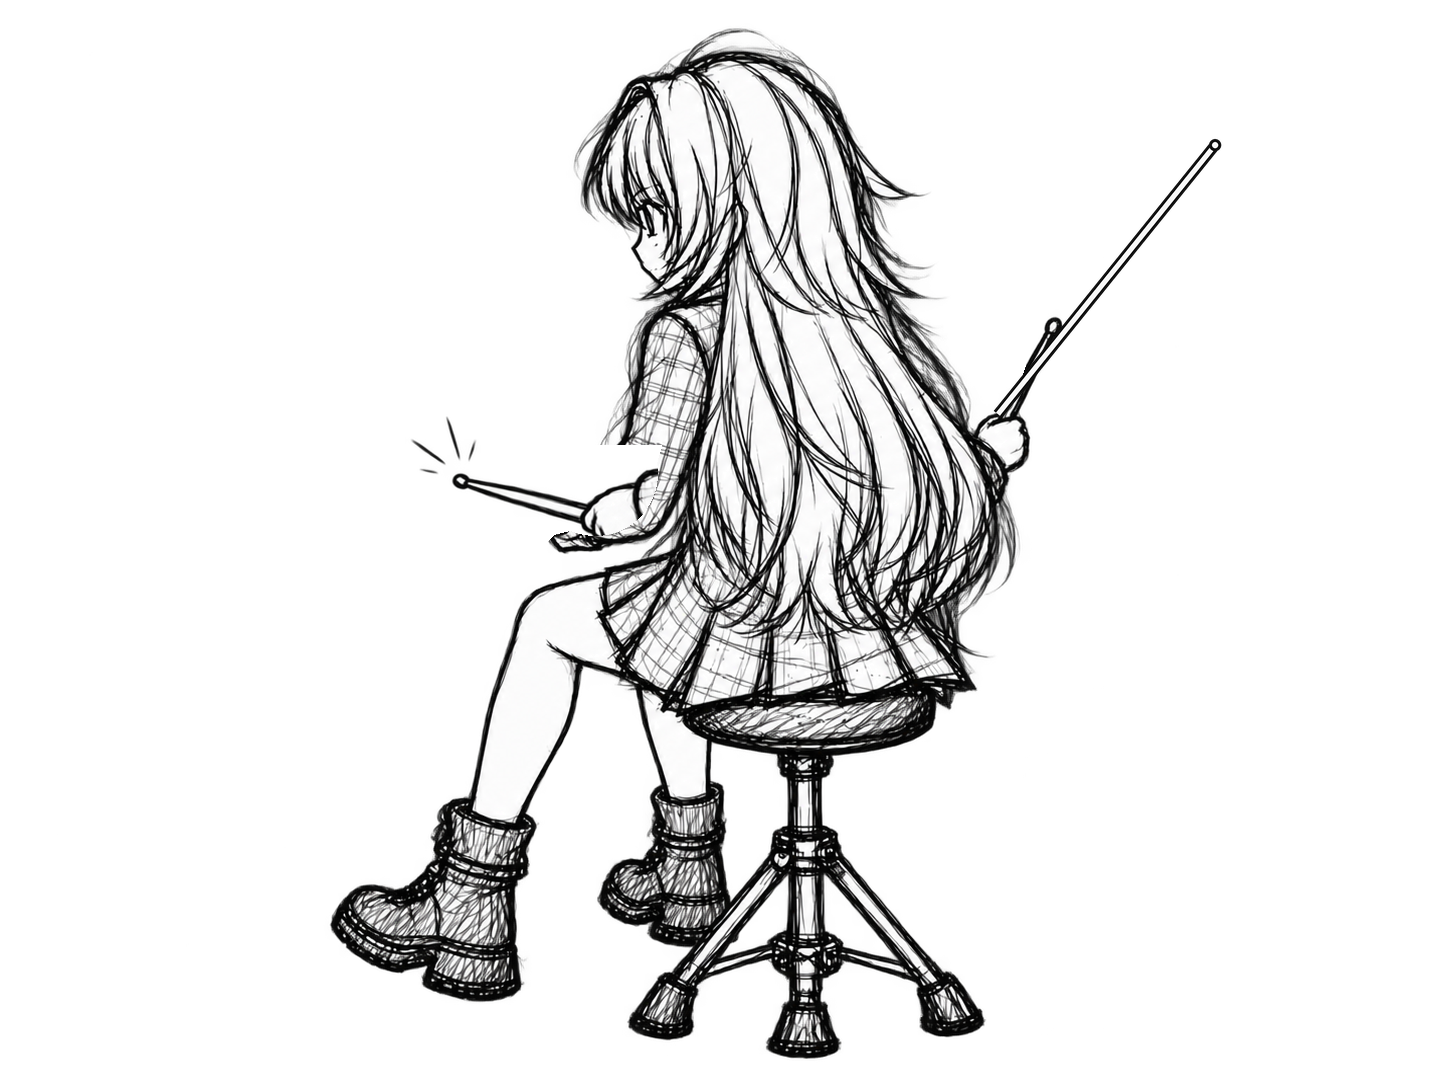
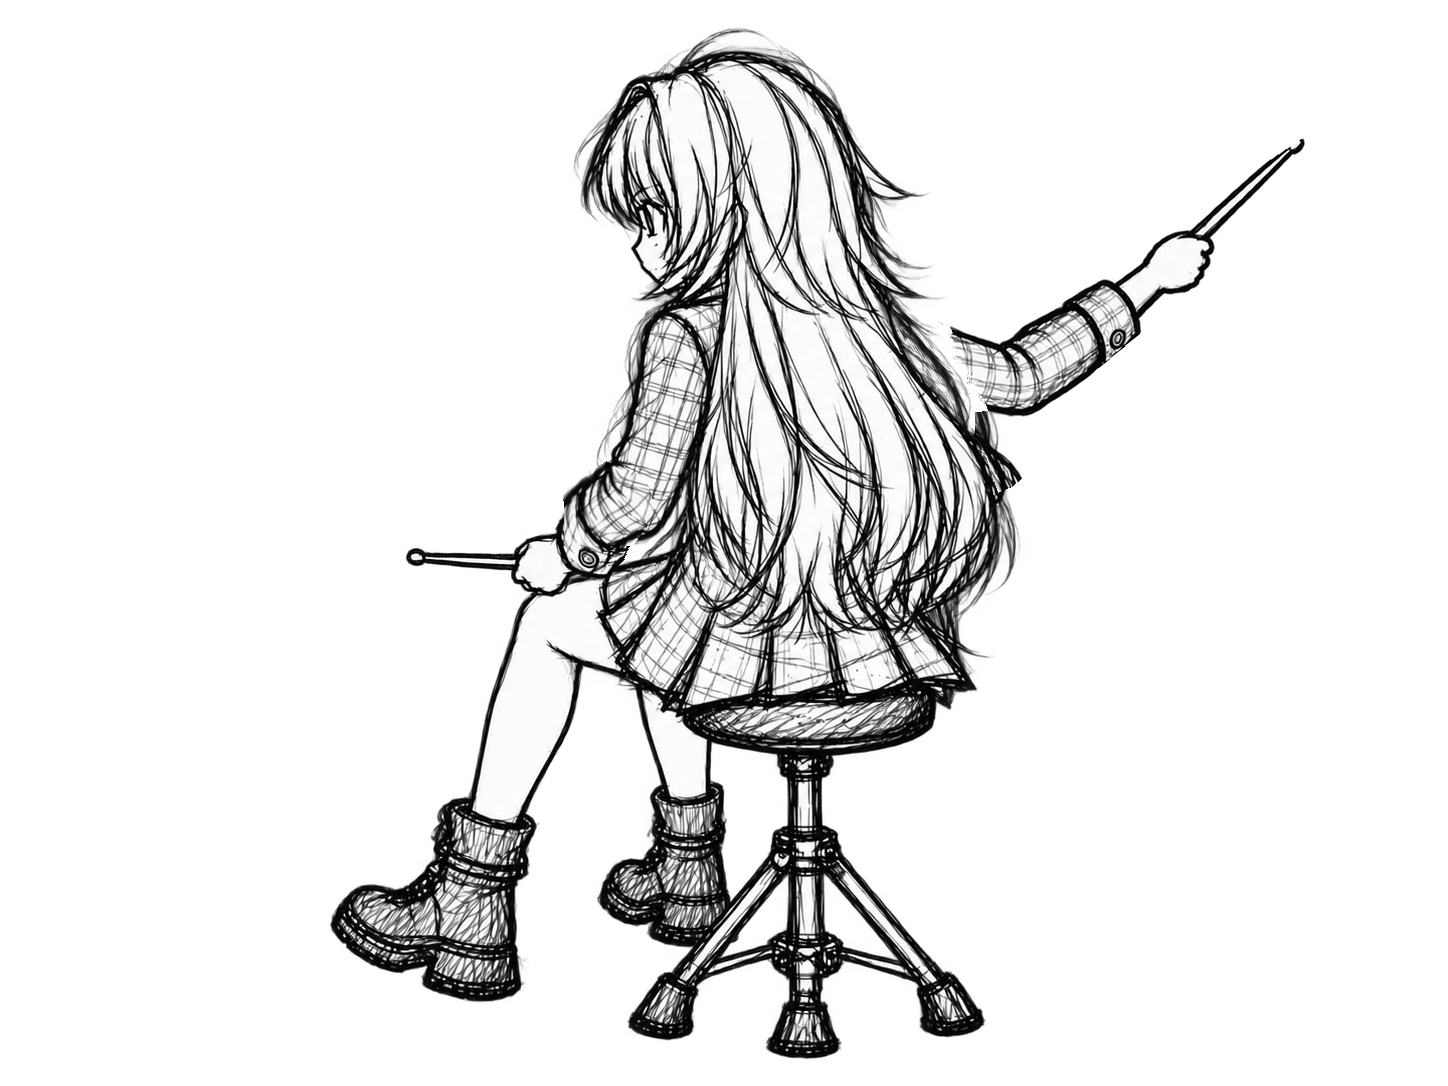
Produce RC and RC+SN pairs with protected character pixels and fixed-drum contact QA

Changed region(s): [[0.6526, 0.1215, 0.9012, 0.4558], [0.2797, 0.395, 0.4662, 0.547]]

diff --git a/site/index.html b/site/index.html
@@ -5,7 +5,7 @@
   <meta name="viewport" content="width=device-width,initial-scale=1,viewport-fit=cover,user-scalable=no">
   <meta name="theme-color" content="#2516ff">
   <title>DTX Drum Flow — FINAL Charts</title>
-  <link rel="stylesheet" href="./styles.css?v=20261008-four-pairs-r2">
+  <link rel="stylesheet" href="./styles.css?v=20261008-six-pairs-r3">
   <style>
     :root{--luna-blue:#2516ff;--luna-ink:#070716;--luna-ivory:#f7f3ea;--luna-lime:#baff00}
     html,body{background:var(--luna-ink)}
@@ -42,8 +42,8 @@
     <section class="panel status-panel"><h2>STATUS</h2><p id="status">FINAL譜面を自動読み込みしています…</p></section>
   </main>
   <nav class="mobile-transport" aria-label="再生操作"><button id="rewindMeasure" class="transport-side">−4小節</button><button id="playPause" class="transport-play is-loading" disabled aria-disabled="true" style="--play-load:0%">読み込み中 0%</button><button id="forwardMeasure" class="transport-side">＋4小節</button></nav>
-  <script type="module" src="./app.js?v=20261008-four-pairs-r2"></script>
-  <script type="module" src="./original-audio.js?v=20261008-four-pairs-r2"></script>
+  <script type="module" src="./app.js?v=20261008-six-pairs-r3"></script>
+  <script type="module" src="./original-audio.js?v=20261008-six-pairs-r3"></script>
   <script>setTimeout(()=>{if(!window.__DTX_APP_READY__){const s=document.getElementById("status");if(s)s.textContent="アプリ本体の読み込みに失敗しました。ページを再読み込みしてください。";}},1500);</script>
   <script src="./version-switcher.js?v=20260920-prepost-r1" defer></script>\n</body>
 </html>

diff --git a/site/app.js b/site/app.js
@@ -2,7 +2,7 @@ import {makeSample,parseChart} from "./parsers.js";
 import {decodeAudio,analyzeOnsets,realignNotes} from "./audio-analysis.js";
 import {LiveDrumEngine} from "./live-drum-engine.js?v=20260920-chart-preload-r2";
 import {applyDrumVoice} from "./drum-note-sound-map.js?v=20260919-audio-final-r21";
-import {initCharacterPrototype,updateCharacterPrototype} from "./character-prototype.js?v=20261008-four-pairs-r2";
+import {initCharacterPrototype,updateCharacterPrototype} from "./character-prototype.js?v=20261008-six-pairs-r3";
 
 const PARTS=["LB","LC","HH","LP","SN","BD","HT","LT","FT","RD","RC"];
 const PART_LABEL={LC:"左シンバル",HH:"ハイハット",SN:"スネア",HT:"ハイタム",LT:"ロータム",FT:"フロアタム",RC:"右シンバル",RD:"ライド",LP:"左足HH",LB:"左足BD",BD:"バスドラム"};

diff --git a/site/character-prototype.js b/site/character-prototype.js
@@ -4,7 +4,7 @@ const DEFAULT_MEASURE_END=4;
 const LIMB_URL="./charts/luna_say_maybe/Luna_say_maybe_full_limbs.json";
 const INVENTORY_URL="./character-assets/prototypes/luna_say_maybe_16m/asset_inventory.json";
 const ASSET_ROOT="./character-assets";
-const ASSET_VERSION="20261008-four-pairs-r2";
+const ASSET_VERSION="20261008-six-pairs-r3";
 const DRUM="./character-assets/layers/drum/drum_base.png";
 const assetUrl=src=>src+(src.includes("?")?"&":"?")+"v="+ASSET_VERSION;
 

diff --git a/character-assets/production/20261008/scripts/make_rc_pair.py b/character-assets/production/20261008/scripts/make_rc_pair.py
@@ -1,0 +1,8 @@
+from PIL import Image,ImageDraw
+from pathlib import Path
+import numpy as np,json
+O=Path('work_output');s=np.array(Image.open(O/'variants/sn/hit_l_candidate_v3.png'));g=np.array(Image.open(O/'sources/right_outward_arm_donor.png').convert('RGBA'));old=np.array(Image.open(O/'variants/hh/hit_r_local_edit_v4.png'));base=s.copy();om=Image.new('L',(1448,1086));ImageDraw.Draw(om).polygon([(975,412),(995,409),(1045,306),(1068,307),(1070,342),(1036,407),(1044,458),(1012,486),(998,492),(985,453),(975,435)],fill=255);o=np.array(om)>0;base[o]=old[o]
+mask=Image.new('L',(1448,1086));ImageDraw.Draw(mask).polygon([(921,327),(1009,321),(1083,254),(1123,211),(1178,192),(1217,150),(1288,89),(1290,145),(1239,203),(1197,266),(1152,296),(1072,382),(1016,428),(963,435),(935,411),(919,366)],fill=255);m=np.array(mask)>0;donor=np.zeros_like(g);donor[m]=g[m];hair=Image.new('L',(1448,1086));ImageDraw.Draw(hair).polygon([(875,260),(921,300),(985,400),(1001,490),(951,625),(900,656),(842,566),(820,385)],fill=255);hm=(np.array(hair)>0)&(base[:,:,3]>0);dm=m&~hm;donor[hm]=0
+# Rotate entire far forearm/hand/stick slightly clockwise into the visible crash head.
+for phase,angle in [('hit',-7),('rebound',13)]:
+ rot=Image.fromarray(donor).rotate(angle,Image.Resampling.BICUBIC,center=(1008,382),expand=False);a=np.array(Image.alpha_composite(Image.fromarray(base),rot));a[hm]=base[hm];im=Image.fromarray(a);(O/'variants/rc').mkdir(exist_ok=True);im.save(O/f'variants/rc/{phase}_r_local_v1.png');dr=Image.open(O/'sources/drum_fixed.png').convert('RGBA');bg=Image.new('RGBA',dr.size,'white');bg.alpha_composite(dr);bg.alpha_composite(im);bg.convert('RGB').save(O/f'previews/rc_r_{phase}_local_v1.png')

diff --git a/character-assets/production/WORK_RESUME_20261008.md b/character-assets/production/WORK_RESUME_20261008.md
@@ -4,7 +4,7 @@
 
 ## 現在の実績
 - Luna最新実装は2,158ノーツ・1,527グループ・30動作・60枚。汎用全曲の全組合せではありません。
-- 新規静的QA合格: SN:L、SN:R、HH:R、HH+SN:R/L の4ペア8枚。commit 3b61f8c9bdca7cda2ebc61fc3e6f2d3b2eb8334b で公開反映済み。8位相のキー/位相/新画像読み込みを公開Webで実測PASS。再生/一時停止で時刻と背景更新も確認。
+- 新規静的QA合格: SN:L、SN:R、HH:R、HH+SN:R/L、RC:R、RC+SN:R/L の6ペア12枚。commit 3b61f8c9bdca7cda2ebc61fc3e6f2d3b2eb8334b で公開反映済み。8位相のキー/位相/新画像読み込みを公開Webで実測PASS。再生/一時停止で時刻と背景更新も確認。
 - 公開Webの従来画像を30動作60位相で操作検証: キー/位相60件一致、画像60件読み込み。SN:Rは旧設定でReboundにもHit画像を使用していたため、今回独立Reboundへ修正。表示テストは絵の合格判定とは別。
 - 固定ドラムSHA256 dadc9764acebc0fc3db3c661ffa0929fb6a3c4cc7b03b27e10920ce796efed85 は不変。Neutral SHA256 886e3490bb926b496d95eb1f8fb2e1ecc69859fdba35d1b13858fe8f31dd39e9 は不変。
 - 413旧画像の機械検査・一覧確認・3分類はledger/image_audit.json。判定保留は個別拡大未完了で、合格donorとして使わない。旧SN:L、旧HH:Rと旧HH:Lを正しい参考にしない。
@@ -23,14 +23,16 @@
 指定名 WORK_MASTER_SPEC_REVISED.md は入力ZIPに存在せず、同梱 WORK_MASTER_SPEC.md と今回ユーザーの1〜10を適用した。
 
 ## 次に行うこと
-1. この入口、20261008/qa、ledger/motion_matrix.json を読み、最新mainとの差を調べる。4ペアの公開実測は20261008/qa/browser_post_promote_4_pairs.json。残り26ペアを制作する。
-2. RC:Rの外向き右腕を局所制作。既存の右腕を画像右の遠い肩からつなぎ、打点1215,145に届かせる。髪/胴/椅子/脚/左腕は保護。合格donorが得られればRD、LT、FT等へ展開。
+1. この入口、20261008/qa、ledger/motion_matrix.json を読み、最新mainとの差を調べる。4ペアの公開実測は20261008/qa/browser_post_promote_4_pairs.json。残り24ペアを制作する。
+2. RC:Rの外向き右腕を局所制作。既存の右腕を画像右の遠い肩からつなぎ、打点1215,145に届かせる。髪/胴/椅子/脚/左腕は保護。RCの外向き腕donorは保存済み。次はRD:Rの曲げた前腕donorを検証し、LT、FT等へ展開。
 3. BD:RFのペダル接触は原画上の板を実見して決める。古い効果座標735,650はバスドラム面であり足の打点ではない。足をそこへ移動しない。
-4. 全ての残26動作にペア、固定マスク、人体/打点検証、Neutral→Hit→Rebound→Neutralプレビューを作る。候補/不合格を完成数に入れない。
+4. 全ての残24動作にペア、固定マスク、人体/打点検証、Neutral→Hit→Rebound→Neutralプレビューを作る。候補/不合格を完成数に入れない。
 5. 毎ペアまたは中断前にこの入口・台帳をGitHub更新。無人の無期限バックグラウンド実行を約束しない。
 
 ## 最新追記
 - 旧SN:R不合格PNGはlegacy-rejectedへ保存し、拒否レジストリを旧SHAの保存先へ更新。新しい別画像の正式パスを旧画像の拒否規則で誤拒否しない。
 - SN:Lの実測V2アンカーと画像ハッシュへCIを更新し、変更許可領域外のRGBA差分ゼロを画像そのものから検査する。固定ドラム/Neutralのハッシュは維持。
 - Web同時打撃ラベルの手順序が楽器のソート順と異なる不具合を修正。HH+SN表示はR/Lとなる。
-- RC:Rの局所Hit/Rebound試作を作成済み。肩側の接続/髪との境界のQAを進行中。合格数には未算入。
+- RC:RとRC+SN:R/Lの局所Hit/Reboundが静的QA合格。公開反映後の検証待ち。RD:Rの局所Hitを生成中。
+
+- commit41635d06b706d8e399821f9ff80b369c87c3bc19のvalidate、Runtime Pose SN-L Source QAはGitHub Actions SUCCESS。
